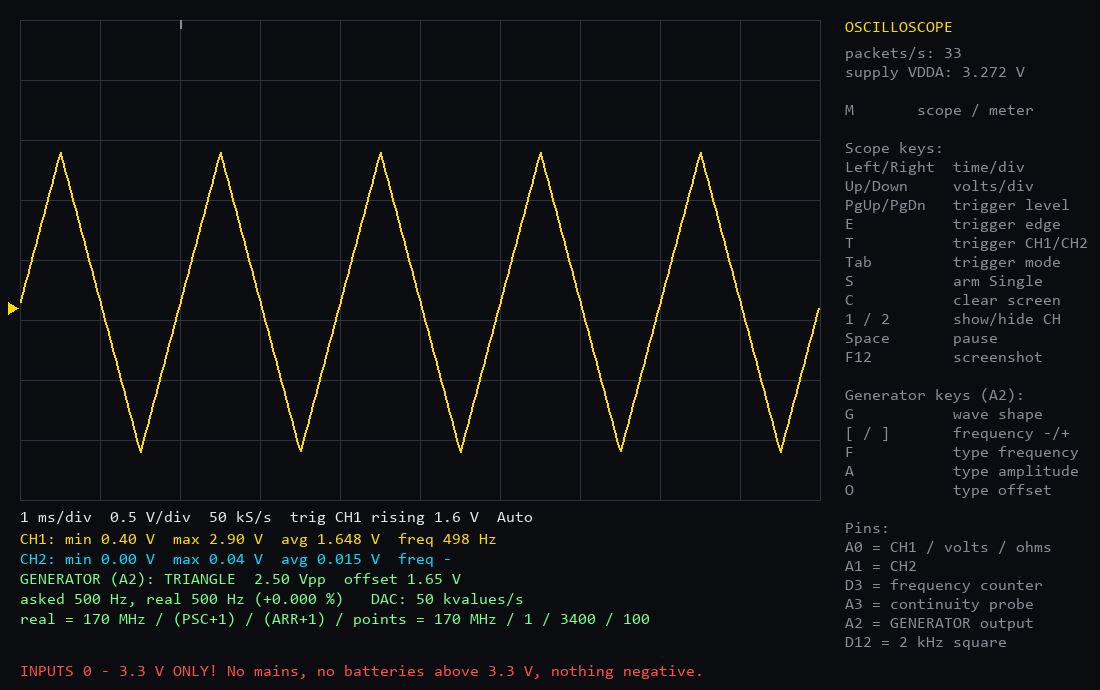
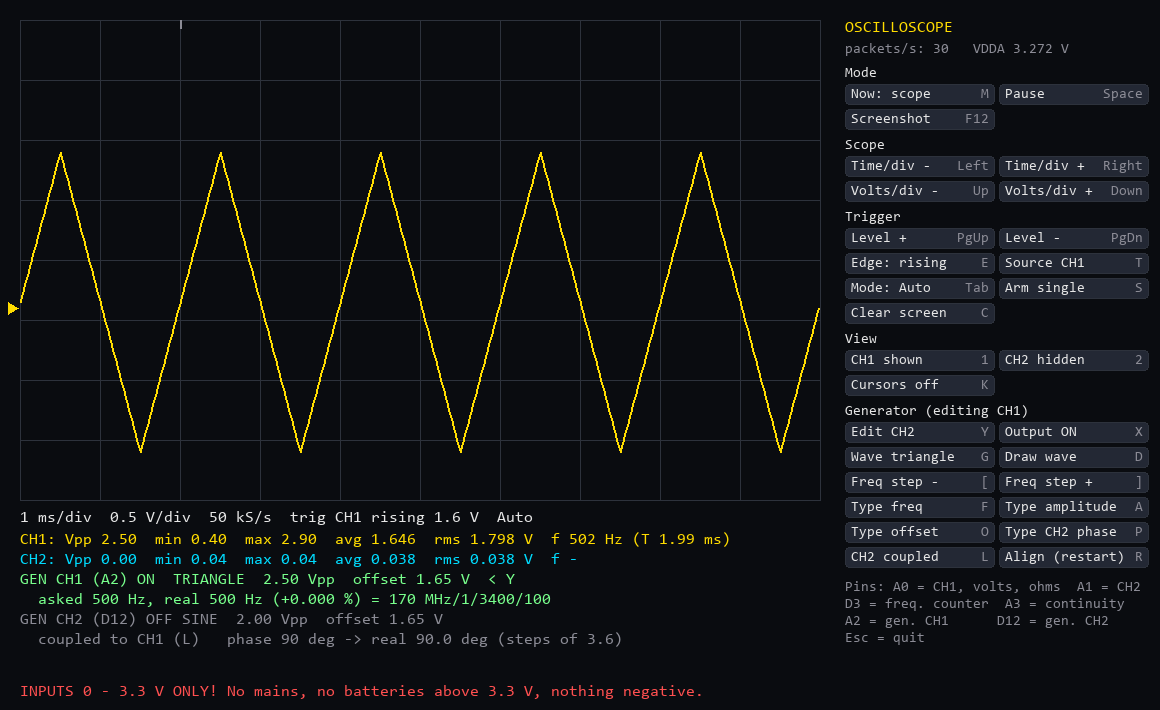
Add clickable buttons to the PC window
- Every action now has a button in the right panel, grouped
  Mode / Scope / Trigger / View / Generator. Each shows its
  shortcut key, and toggles show the current state.
- Typing and drawing modes show their own OK / Cancel and
  Send / Flat line / Cancel buttons.

diff --git a/pc_app/funcgen_window.py b/pc_app/funcgen_window.py
@@ -16,6 +16,8 @@ Extras: K shows two time + two voltage cursors (drag them with the mouse);
 press K again for "track" mode, where the voltage cursors follow the wave.
 D lets you draw one period of a "custom" wave with the mouse.
 Y chooses which generator channel the generator keys change.
+Every key also has a clickable button in the right panel; a click simply
+presses that key, so both ways do exactly the same thing.
 
 INPUTS: 0 V to 3.3 V ONLY. Never connect mains, car or other batteries,
 or anything negative. That can destroy the board and your PC's USB port.
@@ -65,7 +67,12 @@ GW, GH = DIV_X * DIVS_X, DIV_Y * DIVS_Y
 SHOWN = 500                               # samples across the screen
 PRE_TRIGGER = 100                         # samples shown before the trigger (20 %)
 AFTER_TRIGGER = SHOWN - PRE_TRIGGER       # samples shown from the trigger on
-WIDTH, HEIGHT = GX + GW + 280, GY + GH + 210
+WIDTH, HEIGHT = GX + GW + 340, GY + GH + 210
+PANEL_X = GX + GW + 25                    # the right-hand panel (buttons)
+
+# On-screen buttons: 2 columns in the right-hand panel.
+BUTTON_W, BUTTON_H, BUTTON_GAP = 150, 21, 4
+BUTTON_COLOR, BUTTON_HOVER = (35, 40, 52), (60, 68, 88)
 
 # Trigger modes, like a real oscilloscope (Tab switches between them):
 #   Auto   - draw every capture; use the trigger when there is one.
@@ -305,6 +312,8 @@ class Window:
         pygame.display.set_caption("NUCLEO function generator + scope + multimeter")
         self.font = pygame.font.SysFont("consolas", 16)
         self.big = pygame.font.SysFont("consolas", 56, bold=True)
+        self.small = pygame.font.SysFont("consolas", 14)
+        self.button_rects = []              # [(rectangle, key)] drawn last frame
         self.beep = make_beep()
         self.beeping = False
         self.meter_mode = False
@@ -475,6 +484,11 @@ class Window:
         if event.type == pygame.MOUSEMOTION and not event.buttons[0]:
             return                          # moving without the button
         x, y = event.pos
+        # A click on a button: press its key, and nothing else (no drawing,
+        # no cursor grab). Only a new click counts, so dragging a cursor
+        # over the buttons does not press them.
+        if event.type == pygame.MOUSEBUTTONDOWN and self.click_button(x, y):
+            return
         if self.drawing is not None:
             self.draw_at(x, y)
             return
@@ -497,6 +511,97 @@ class Window:
                 top = VOLTS_PER_DIV[self.vdiv_index] * DIVS_Y
                 volts = (GY + GH - y) / DIV_Y * VOLTS_PER_DIV[self.vdiv_index]
                 self.cursor_v[n] = min(max(volts, 0.0), top)
+
+    # ---- on-screen buttons ----
+    # Every button is just a key: a click "presses" that key (press_key),
+    # so a button always does exactly what its key does.
+    def buttons(self):
+        """The buttons to show now: a list of (title, [(label, key name,
+        pygame key), ...]). Some labels show the current state."""
+        if self.drawing is not None:        # drawing mode: only its own keys
+            return [("Drawing a wave", [("Send it", "Enter", pygame.K_RETURN),
+                                        ("Flat line", "C", pygame.K_c),
+                                        ("Cancel", "Esc", pygame.K_ESCAPE)])]
+        if self.entry is not None:          # typing a number (digits: keyboard)
+            return [("Typing a number", [("OK", "Enter", pygame.K_RETURN),
+                                         ("Cancel", "Esc", pygame.K_ESCAPE),
+                                         ("Delete digit", "Bksp", pygame.K_BACKSPACE)])]
+        g = self.gen[self.edit] if self.gen else None
+        wave = WAVES[g["wave"]] if g else "?"
+        on = ("ON" if g["on"] else "OFF") if g else "?"
+        coupled = self.pair and self.pair["coupled"]
+        return [
+            ("Mode", [
+                ("Now: meter" if self.meter_mode else "Now: scope", "M", pygame.K_m),
+                ("Paused" if self.paused else "Pause", "Space", pygame.K_SPACE),
+                ("Screenshot", "F12", pygame.K_F12)]),
+            ("Scope", [
+                ("Time/div -", "Left", pygame.K_LEFT),
+                ("Time/div +", "Right", pygame.K_RIGHT),
+                ("Volts/div -", "Up", pygame.K_UP),
+                ("Volts/div +", "Down", pygame.K_DOWN)]),
+            ("Trigger", [
+                ("Level +", "PgUp", pygame.K_PAGEUP),
+                ("Level -", "PgDn", pygame.K_PAGEDOWN),
+                ("Edge: rising" if self.trigger_rising else "Edge: falling", "E", pygame.K_e),
+                (f"Source CH{self.trigger_source + 1}", "T", pygame.K_t),
+                (f"Mode: {self.trigger_mode}", "Tab", pygame.K_TAB),
+                ("Arm single", "S", pygame.K_s),
+                ("Clear screen", "C", pygame.K_c)]),
+            ("View", [
+                (f"CH1 {'shown' if self.visible[0] else 'hidden'}", "1", pygame.K_1),
+                (f"CH2 {'shown' if self.visible[1] else 'hidden'}", "2", pygame.K_2),
+                (f"Cursors {self.cursor_mode}", "K", pygame.K_k)]),
+            (f"Generator (editing CH{self.edit + 1})", [
+                (f"Edit CH{2 - self.edit}", "Y", pygame.K_y),
+                (f"Output {on}", "X", pygame.K_x),
+                (f"Wave {wave}", "G", pygame.K_g),
+                ("Draw wave", "D", pygame.K_d),
+                ("Freq step -", "[", pygame.K_LEFTBRACKET),
+                ("Freq step +", "]", pygame.K_RIGHTBRACKET),
+                ("Type freq", "F", pygame.K_f),
+                ("Type amplitude", "A", pygame.K_a),
+                ("Type offset", "O", pygame.K_o),
+                ("Type CH2 phase", "P", pygame.K_p),
+                ("CH2 coupled" if coupled else "CH2 free", "L", pygame.K_l),
+                ("Align (restart)", "R", pygame.K_r)]),
+        ]
+
+    def press_key(self, k):
+        """Do what key k does, as if it had been pressed on the keyboard."""
+        self.key(pygame.event.Event(pygame.KEYDOWN, key=k, unicode="", mod=0))
+
+    def click_button(self, x, y):
+        """Was (x, y) on a button? Then press its key and say True."""
+        for rect, k in self.button_rects:
+            if rect.collidepoint(x, y):
+                self.press_key(k)
+                return True
+        return False
+
+    def draw_buttons(self, x, y):
+        """Draw the buttons from buttons() at (x, y), 2 per row, each with its
+        label on the left and its key on the right. Remember where they are
+        (button_rects) for click_button(). Returns the y below the last one."""
+        self.button_rects = []
+        mouse = pygame.mouse.get_pos()
+        for title, row in self.buttons():
+            self.text(title, x, y, WHITE, self.small)
+            y += 18
+            for i, (label, key_name, k) in enumerate(row):
+                column, line = i % 2, i // 2
+                rect = pygame.Rect(x + column * (BUTTON_W + BUTTON_GAP),
+                                   y + line * (BUTTON_H + BUTTON_GAP), BUTTON_W, BUTTON_H)
+                hover = rect.collidepoint(mouse)
+                pygame.draw.rect(self.screen, BUTTON_HOVER if hover else BUTTON_COLOR,
+                                 rect, border_radius=4)
+                pygame.draw.rect(self.screen, GRID, rect, 1, border_radius=4)
+                self.text(label, rect.x + 6, rect.y + 3, WHITE, self.small)
+                key_text = self.small.render(key_name, True, GREY)
+                self.screen.blit(key_text, (rect.right - key_text.get_width() - 6, rect.y + 3))
+                self.button_rects.append((rect, k))
+            y += (len(row) + 1) // 2 * (BUTTON_H + BUTTON_GAP) + 4
+        return y
 
     # ---- keyboard ----
     def key(self, event):
@@ -788,30 +893,20 @@ class Window:
                       f"{text}_", x, y + 82, (255, 255, 0))
 
     def draw_panel(self, p):
-        x, y = GX + GW + 25, GY
+        """The right-hand panel: mode, packets/s, supply, the buttons (each
+        shows its keyboard key on the right), and the pins."""
+        x, y = PANEL_X, GY
         self.text("MULTIMETER" if self.meter_mode else "OSCILLOSCOPE", x, y, CH_COLORS[0])
         rate = len(self.packet_times) / 2
-        lines = [f"packets/s: {rate:.0f}"]
-        if p:
-            lines.append(f"supply VDDA: {p['vdda']:.3f} V")
-        lines += ["", "M       scope / meter", "", "Scope keys:",
-                  "Left/Right  time/div", "Up/Down     volts/div",
-                  "PgUp/PgDn   trigger level", "E           trigger edge",
-                  "T           trigger CH1/CH2", "Tab         trigger mode",
-                  "S           arm Single", "C           clear screen",
-                  "1 / 2       show/hide CH", "K           cursors/track",
-                  "Space       pause", "F12         screenshot", "",
-                  f"Generator keys (CH{self.edit + 1}):", "Y           edit CH1/CH2",
-                  "X           output on/off", "G           wave shape",
-                  "[ / ]       frequency -/+", "F           type frequency",
-                  "A           type amplitude", "O           type offset",
-                  "D           draw a wave", "P           type CH2 phase",
-                  "L           CH2 coupling", "R           align (restart)", "",
-                  "Pins:", "A0 = CH1 / volts / ohms", "A1 = CH2",
-                  "D3 = frequency counter", "A3 = continuity probe",
-                  "A2 = generator CH1", "D12 = generator CH2"]
-        for i, line in enumerate(lines):
-            self.text(line, x, y + 26 + i * 17, GREY)
+        vdda = f"   VDDA {p['vdda']:.3f} V" if p else ""
+        self.text(f"packets/s: {rate:.0f}{vdda}", x, y + 22, GREY, self.small)
+        y = self.draw_buttons(x, y + 46)
+        pins = ["Pins: A0 = CH1, volts, ohms  A1 = CH2",
+                "D3 = freq. counter  A3 = continuity",
+                "A2 = gen. CH1      D12 = gen. CH2",
+                "Esc = quit"]
+        for i, line in enumerate(pins):
+            self.text(line, x, y + 4 + i * 17, GREY, self.small)
         self.text(WARNING, GX, HEIGHT - 26, RED)
 
     def update_beep(self):

diff --git a/README.md b/README.md
@@ -25,10 +25,10 @@ D12 → A1**, you watch the waves you make in the same window.
 
 *(A real screenshot: the generator makes a 500 Hz triangle, 2.5 V peak to
 peak around 1.65 V, and CH1 shows it. The green lines at the bottom are the
-generator panel. The screenshot was taken with a temporary test build that
-connected A2 to the scope inside the chip, because nobody was there to plug
-in the wire. With the normal firmware and the wire A2 → A0 you get the same
-picture. [Here is a 300 Hz sawtooth](docs/screenshot_sawtooth.png).)*
+generator panel; the buttons on the right do the same as the keys. The
+board data was read out through the debugger (the serial port was busy at
+the time) and drawn by this window, so with the wire A2 → A0 you get the
+same picture. [Here is a 300 Hz sawtooth](docs/screenshot_sawtooth.png).)*
 
 ```
  PC: "triangle, 500 Hz, 2.5 V, 1.65 V" ──USB──► board fills a table (100 values)
@@ -184,6 +184,17 @@ the COM port at a time.
 
 ## Controls
 
+**Buttons or keys, your choice.** Every key below also has a button in
+the panel on the right of the window, grouped as Mode, Scope, Trigger,
+View and Generator. Each button says what it does, with its key in grey on
+the right (for example `Wave sine   G`). Click it with the mouse and the
+window does exactly what the key does. Toggle buttons show the current
+state ("Mode: Auto", "Edge: rising", "CH2 shown", "Edit CH2", "Output ON",
+"CH2 coupled"). While you draw a wave the panel shows only **Send it /
+Flat line / Cancel**, and while you type a value it shows **OK / Cancel /
+Delete digit** (type the digits on the keyboard). Esc on the keyboard
+still quits the window; the Cancel button never does.
+
 **Generator** (the green lines under the scope show both channels; `< Y`
 marks the one the keys change)
 
@@ -281,7 +292,8 @@ other waves. For the full 0 … 3.3 V use amplitude 3.3 and offset 1.65.
 
 *(Real screenshot of a drawn "heartbeat", 200 Hz, 3.0 Vpp. Cursors t1/t2
 measure one period: dt = 5 ms, 1/dt = 200 Hz. V1/V2 sit on the bottom and
-the top: dV = 2.78 V. Same temporary test build as the first screenshot.)*
+the top: dV = 2.67 V. Board data read through the debugger, like the first
+screenshot.)*
 
 ### Cursors and automatic measurements
 
@@ -289,7 +301,7 @@ Under the scope, one line per channel is measured from the samples
 on screen:
 
 ```
-CH1: Vpp 2.78  min 0.31  max 3.09  avg 1.169  rms 1.219 V  f 200 Hz (T 5 ms)
+CH1: Vpp 2.67  min 0.37  max 3.04  avg 1.166  rms 1.213 V  f 200 Hz (T 5 ms)
 ```
 
 - **Vpp** = max − min. **avg** = the average (the DC level).
@@ -318,7 +330,7 @@ to measure just that bump.
 
 ![Track mode with max/min markers on a 1 kHz triangle](docs/screenshot_track.png)
 
-*(Track mode on a test triangle, made without the board: V1 / V2 are the
+*(Track mode on a real 1 kHz triangle from the board: V1 / V2 are the
 wave's voltage at t1 / t2, and ▼ / ▲ mark the max and min between them.)*
 
 **Scope and meter** (same as SCOPE)

diff --git a/HOW_IT_WORKS.md b/HOW_IT_WORKS.md
@@ -426,6 +426,23 @@ packet. At 4 250 000 baud a packet takes about 9.5 ms.
   `R_unknown = R_known × V / (VDDA − V)`. `make_beep()` makes the continuity
   tone.
 
+### The buttons (a second way to press the keys)
+
+- `buttons()` returns the list of buttons for the current situation as
+  (label, key name, pygame key). The labels are built every frame, so they
+  can show the state ("Mode: Auto", "Output ON"). While drawing or typing,
+  only the buttons that make sense there are returned.
+- `draw_buttons()` draws them in two columns in the right panel and
+  remembers each button's rectangle. `click_button()` checks those
+  rectangles when the mouse button goes down.
+- A click does **not** have its own code for each action. `press_key()`
+  makes a fake key event and hands it to `key()`, the same function the
+  keyboard uses. So a button and its key can never behave differently, and
+  a new key only needs one extra line in `buttons()`.
+- In `mouse()` the button check comes first, and only for a mouse-down, so
+  a click on a button never starts a cursor drag or draws on the wave, and
+  dragging a cursor over the panel never presses a button.
+
 ## Things we learned the hard way
 
 - **The USART FIFO must be on for the multi-byte commands.** At 4 250 000 baud
